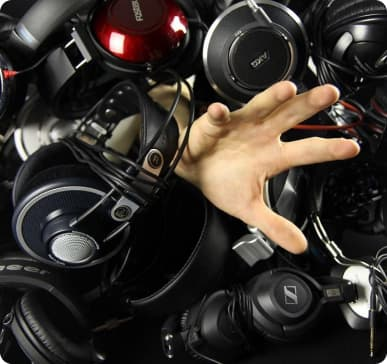
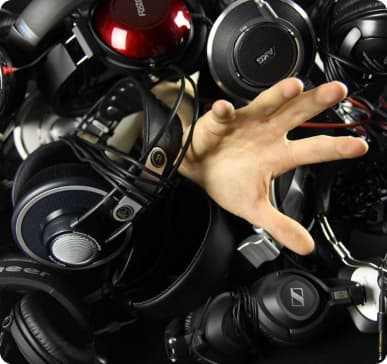
uddate img

diff --git a/src/blog.html b/src/blog.html
@@ -20,13 +20,7 @@
             <div class="container">
                 <!-- заголовок секції однаковий- такий же як Take order  и  Contacts -->
                 <!-- тому клас треба додати йому такий же як у iнших  -->
-
                 <h2 class="page-name">Blog</h2>
-
-                <!-- додати подвійну линию ЧЕРЕЗ SVG
-                <svg class="" with="" height="">
-                <use href="./images/symbol-defs.svg#icon-ПОДВІЙНА ЛИНИЯ "></use>
-                </svg>-->
 
                 <ul class="blog-list">
                     <li class="blog-item">

diff --git a/src/sass/base/_common.scss b/src/sass/base/_common.scss
@@ -8,4 +8,5 @@ img {
   display: block;
   width: 100%;
   height: auto;
+  border-radius: 12px;
 }
